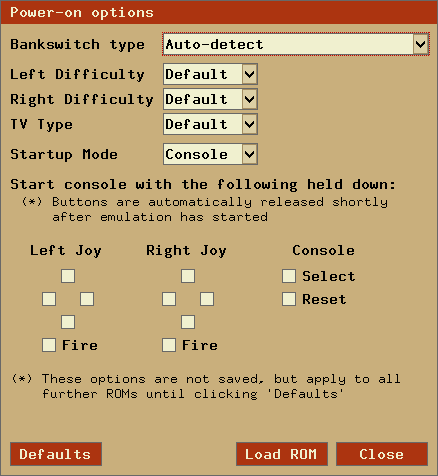
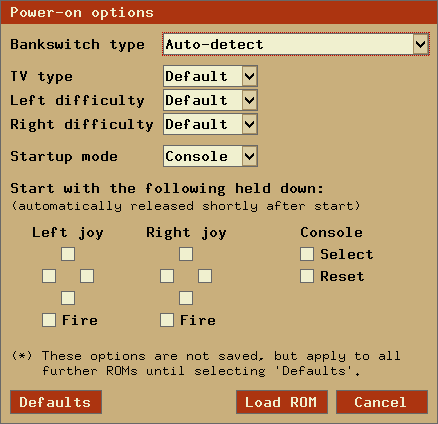
updated doc

diff --git a/docs/index.html b/docs/index.html
@@ -1817,13 +1817,14 @@
 	  <tr><th>Item</th><th>Description</th></tr>
 	  <tr><td>Current time</td><td>Shows the time of the currently selected status,
       relative to the first one</td></tr>
+	  <tr><td>'Start/Stop' button</td><td>Starts or stops the Time Machine</td></tr>
+	  <tr><td>'Continue' button</td><td>Exits the dialog and continues emulation</td></tr>
 	  <tr><td>'Rewind All' button</td><td>Navigates back to the begin of the timeline</td></tr>
 	  <tr><td>'Rewind One' button</td><td>Navigates back by one state</td></tr>
-	  <tr><td>'Continue' button</td><td>Exits the dialog and continues emulation.</td></tr>
-	  <tr><td>Navigation info</td><td>Informs about the interval of the user's last
-      Time Machine navigation. The interval can vary if the timeline is compressed.</td></tr>
 	  <tr><td>'Unwind One' button</td><td>Navigates forward by one state</td></tr>
 	  <tr><td>'Unwind All' button</td><td>Navigates forward to the end of the timeline</td></tr>
+	  <tr><td>Navigation info</td><td>Informs about the interval of the user's last
+      Time Machine navigation. The interval can vary if the timeline is compressed.</td></tr>
 	  <tr><td>Total time</td><td>Shows the total time covered by the save states
       (aka 'Horizon')</td></tr>
 	</table>
@@ -2936,9 +2937,9 @@
         <table border="1" cellpadding="4">
           <tr><th>Item</th><th>For more information,<br>see <a href="#CommandLine">Commandline</a></th></tr>
           <tr><td>Bankswitch type</td><td>-bs</td></tr>
+          <tr><td>TV Type</td><td>-tv</td></tr>
           <tr><td>Left Difficulty</td><td>-ld</td></tr>
           <tr><td>Right Difficulty</td><td>-rd</td></tr>
-          <tr><td>TV Type</td><td>-tv</td></tr>
           <tr><td>Startup Mode</td><td>-debug</td></tr>
           <tr><td>Left Joy items</td><td>-holdjoy0</td></tr>
           <tr><td>Right Joy items</td><td>-holdjoy1</td></tr>
